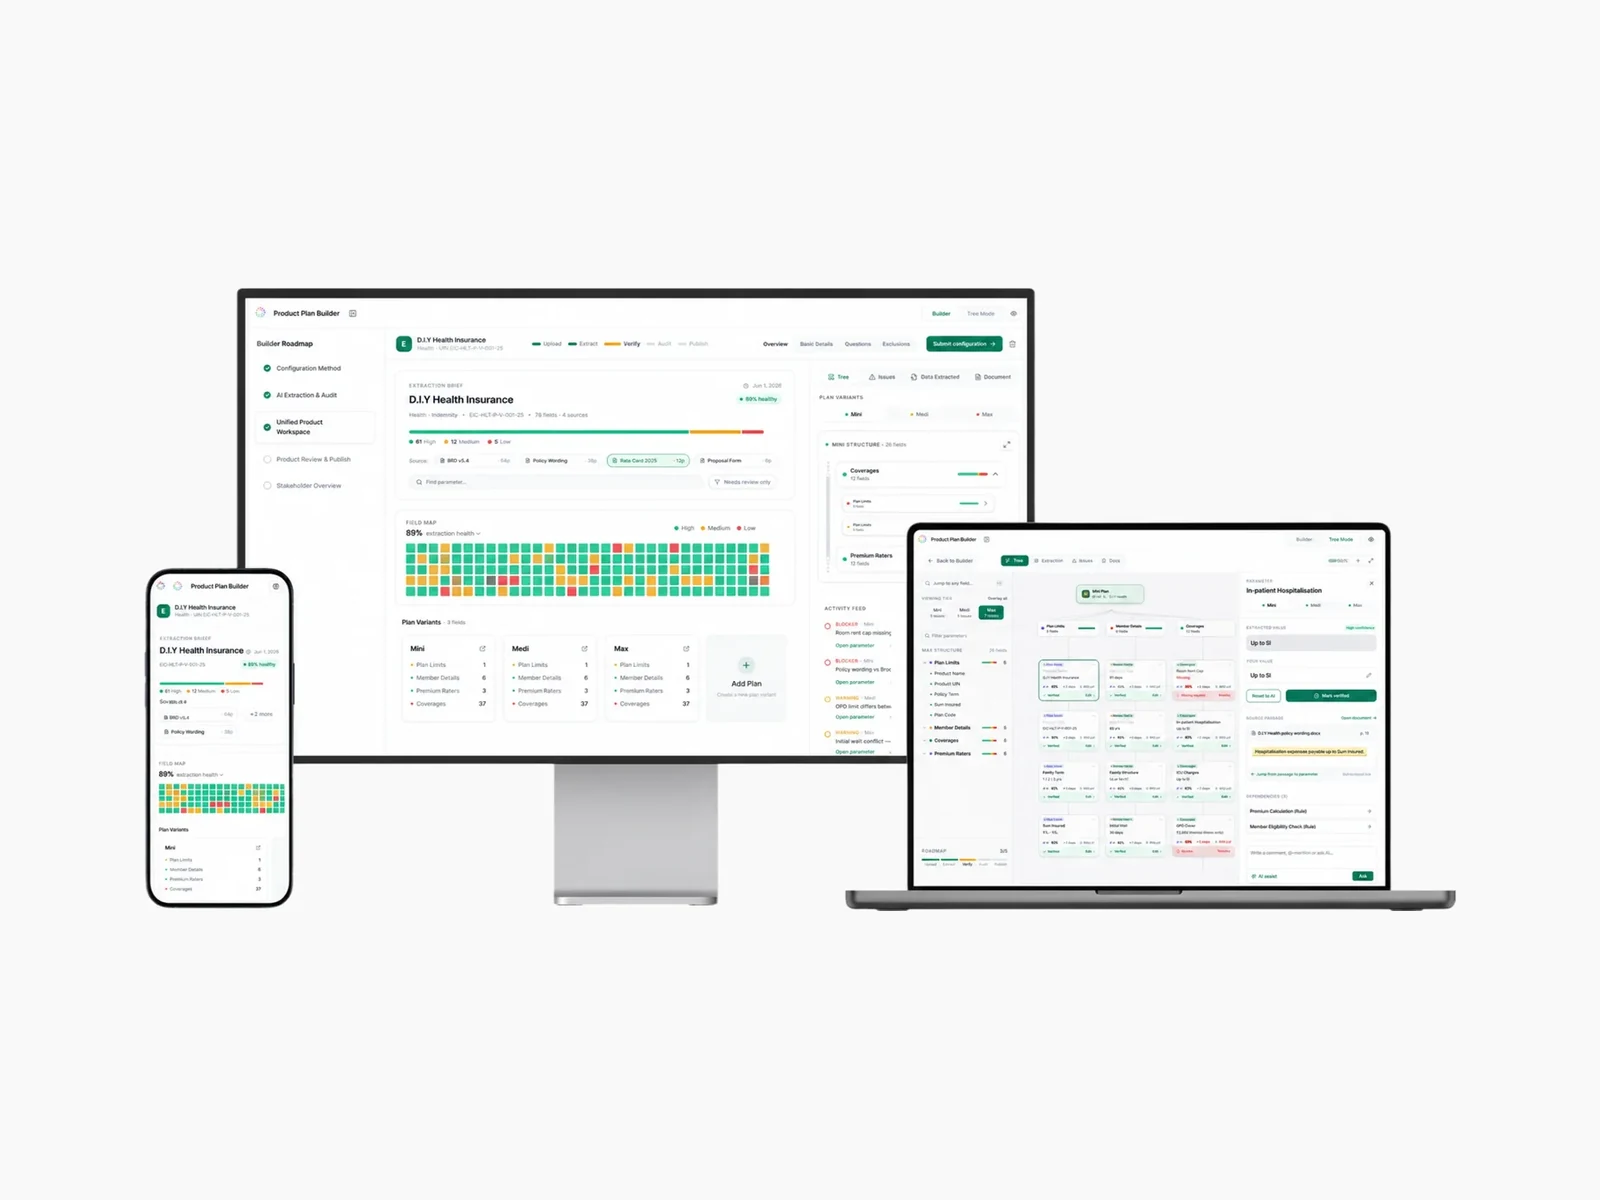
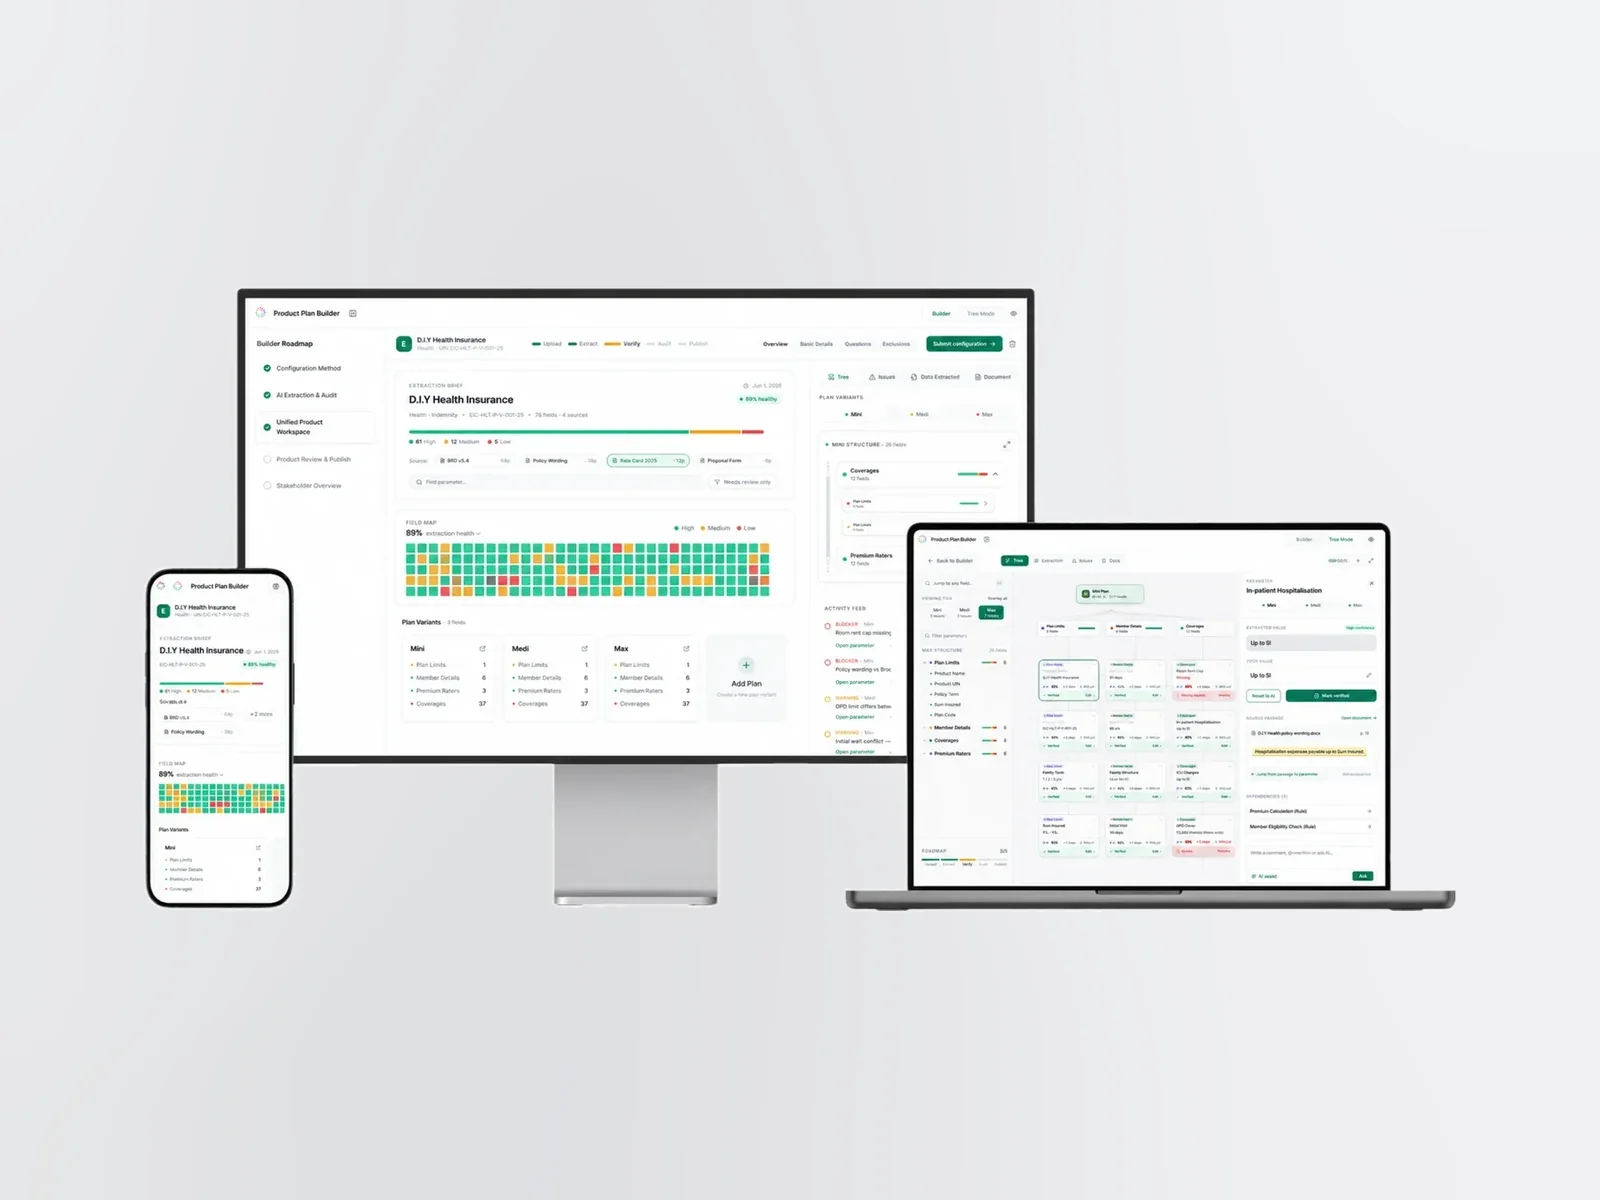
Put every project card on project 1's grey
Insure-Tech sat on a flat near-white (249) and Oykot on a paler, warmer
grey than the less Ops photo, so the three cards read as three different
shoots. Both grounds are now replaced with the less Ops one — its own
light falloff, rebuilt from its background pixels alone so the laptop
does not darken it — while the devices, hands and the Oykot wordmark
keep their own pixels. The replacement also takes out a lighter padded
block that sat in the Oykot card's bottom-right corner.

Originals are kept in media/src/card-originals.

Changed region(s): [[0.125, 0.6167, 0.5, 1.0]]

diff --git a/script.js b/script.js
@@ -288,7 +288,7 @@ const WORK = [
     // A 4:3 plate, matching the card's own ratio. The wide 1600x829 artwork is
     // still the source, but cover-fitting it into a 4:3 card cropped a third
     // of the width away — the phone and the laptop's right edge went with it.
-    thumb: "media/insure-tech-card.webp",
+    thumb: "media/insure-tech-card.webp?v=2",
     // The written case study, on its own page, in the portfolio's own design.
     // It opens with buttons through to the prototype and the design system —
     // the embed used to carry those as tabs, which meant the modal showed a
@@ -399,7 +399,7 @@ const WORK = [
     live: "oykot-case-study.html",
     // Same 4:3 treatment as the Insure-Tech card: the poster inset on its own
     // ground, so the wordmark and the hands survive the card's scale-in.
-    thumb: "media/oykot-money-card.webp" },
+    thumb: "media/oykot-money-card.webp?v=2" },
 ];
 
 /* The drawing screen's own shelf: sketchbook pages, lettering, whatever else

diff --git a/index.html b/index.html
@@ -368,6 +368,6 @@
   </footer>
 
   <script src="hand.js?v=254"></script>
-  <script src="script.js?v=410"></script>
+  <script src="script.js?v=411"></script>
 </body>
 </html>
